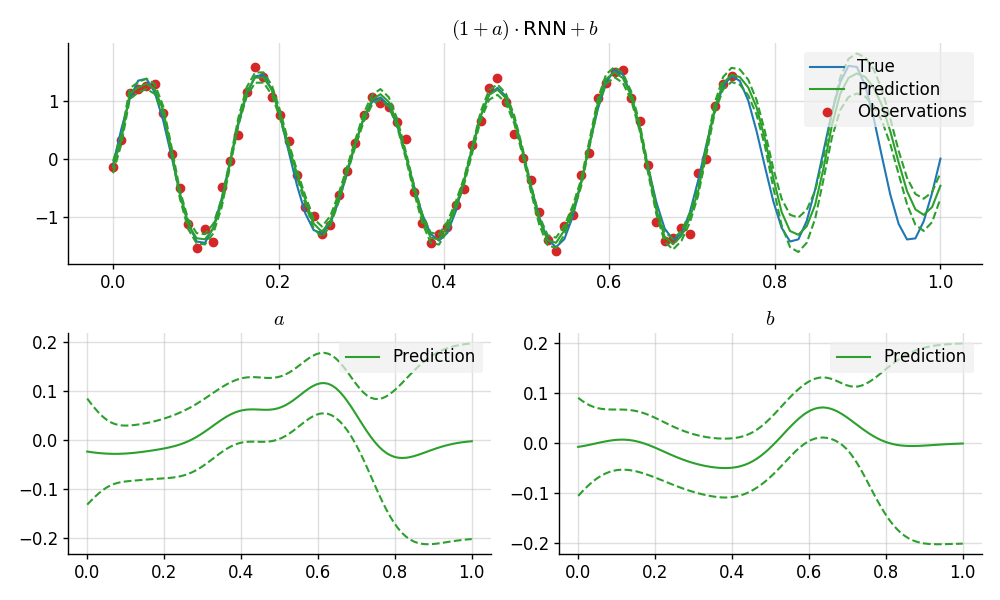
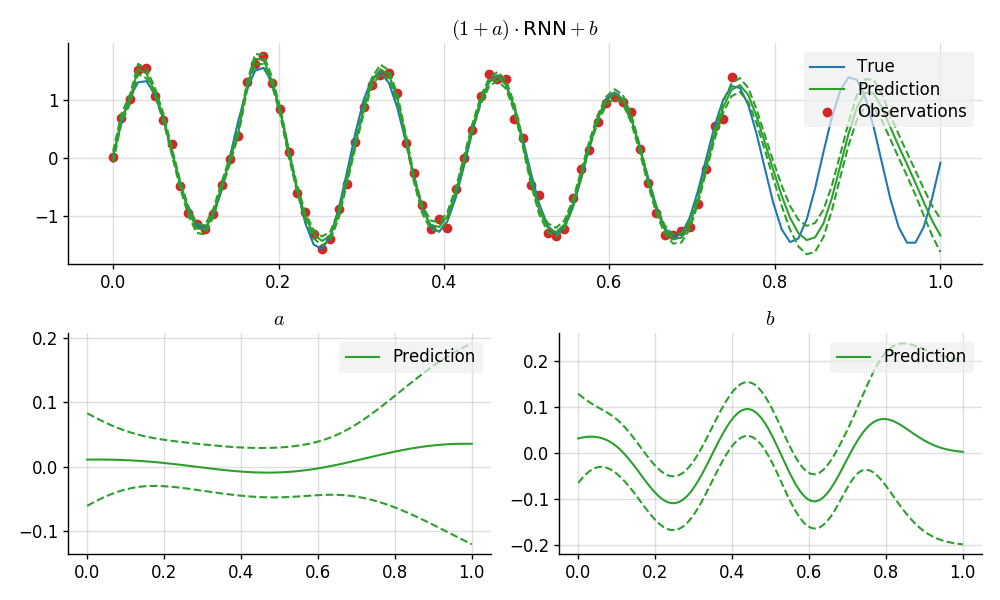
Improve GP-RNN experiment

diff --git a/readme_example8_gp-rnn.py b/readme_example8_gp-rnn.py
@@ -45,9 +45,9 @@ def model(vs):
     f_rnn.initialise(input_size=1, vs=weights)
 
     # Construct GPs that modulate the RNN.
-    a = GP(1e-2 * EQ().stretch(0.1), graph=g)
-    b = GP(1e-2 * EQ().stretch(0.1), graph=g)
-    e = GP(1e-2 * Delta(), graph=g)
+    a = GP(1e-2 * EQ().stretch(vs.pos(0.1, name='a/scale')), graph=g)
+    b = GP(1e-2 * EQ().stretch(vs.pos(0.1, name='b/scale')), graph=g)
+    e = GP(vs.pos(1e-2, name='e/var') * Delta(), graph=g)
 
     # GP-RNN model:
     f_gp_rnn = (1 + a) * (lambda x: f_rnn(x)) + b

diff --git a/README.md b/README.md
@@ -1455,9 +1455,9 @@ def model(vs):
     f_rnn.initialise(input_size=1, vs=weights)
 
     # Construct GPs that modulate the RNN.
-    a = GP(1e-2 * EQ().stretch(0.1), graph=g)
-    b = GP(1e-2 * EQ().stretch(0.1), graph=g)
-    e = GP(1e-2 * Delta(), graph=g)
+    a = GP(1e-2 * EQ().stretch(vs.pos(0.1, name='a/scale')), graph=g)
+    b = GP(1e-2 * EQ().stretch(vs.pos(0.1, name='b/scale')), graph=g)
+    e = GP(vs.pos(1e-2, name='e/var') * Delta(), graph=g)
 
     # GP-RNN model:
     f_gp_rnn = (1 + a) * (lambda x: f_rnn(x)) + b
